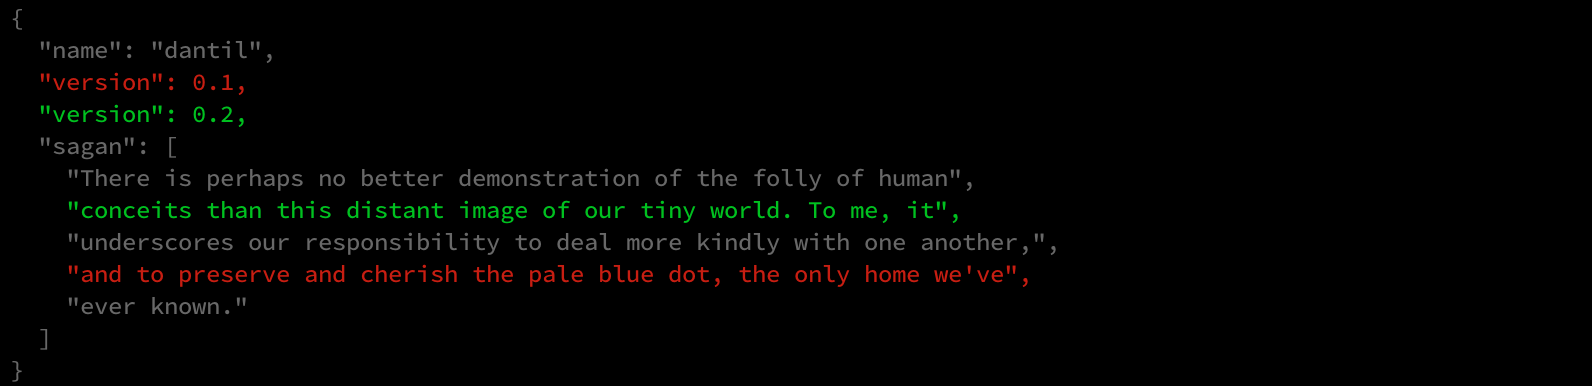
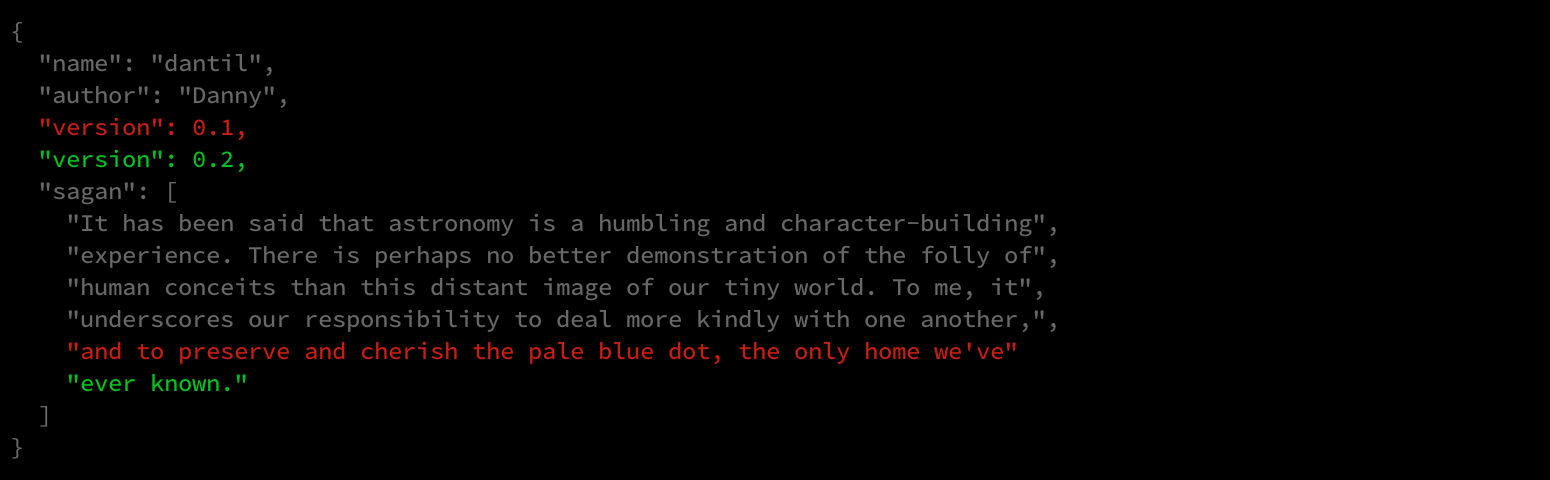
Expand `dantil.diffObjects()` example

Changed region(s): [[0.0, 0.1865, 0.6813, 0.7461], [0.031, 0.0933, 0.1858, 0.1554], [0.031, 0.7772, 0.1548, 0.8394]]

diff --git a/dantil.js b/dantil.js
@@ -1468,32 +1468,42 @@ exports.deleteUndefinedObjectProps = function (object) {
  *
  * var objA = {
  *   name: 'dantil',
+ *   author: 'Danny',
  *   version: 0.1,
  *   sagan: [
- *     'There is perhaps no better demonstration of the folly of human',
+ *     'It has been said that astronomy is a humbling and character-building',
+ *     'experience. There is perhaps no better demonstration of the folly of',
+ *     'human conceits than this distant image of our tiny world. To me, it',
  *     'underscores our responsibility to deal more kindly with one another,',
- *     'and to preserve and cherish the pale blue dot, the only home we\'ve',
- *     'ever known.'
+ *     'and to preserve and cherish the pale blue dot, the only home we\'ve'
  *   ]
  * }
  *
  * var objB = {
  *   name: 'dantil',
+ *   author: 'Danny',
  *   version: 0.2,
  *   sagan: [
- *     'There is perhaps no better demonstration of the folly of human',
- *     'conceits than this distant image of our tiny world. To me, it',
+ *     'It has been said that astronomy is a humbling and character-building',
+ *     'experience. There is perhaps no better demonstration of the folly of',
+ *     'human conceits than this distant image of our tiny world. To me, it',
  *     'underscores our responsibility to deal more kindly with one another,',
  *     'ever known.'
  *   ]
  * }
- *
+ * ```
+ * ```js
  * // Compare objects and generate string with differences stylized.
- * var diff = dantil.diffObjects(objA, objB)
- * console.log(diff)
+ * console.log(dantil.diffObjects(objA, objB))
  * ```
  * Output:
  * <br><img src="https://raw.githubusercontent.com/DannyNemer/dantil/master/doc/img/dantil-diffObjects-example.jpg" alt="dantil.diffObjects() example output"/>
+ * ```js
+ * // Collapse ranges of unchanged lines.
+ * console.log(dantil.diffObjects(objA, objB, true))
+ * ```
+ * Collapsed output:
+ * <br><img src="https://raw.githubusercontent.com/DannyNemer/dantil/master/doc/img/dantil-diffObjects-collapsed-example.jpg" alt="dantil.diffObjects() collapsed example output"/>
  * ```
  */
 exports.diffObjects = function (object, other, collapsed) {

diff --git a/README.md b/README.md
@@ -1285,7 +1285,7 @@ Recursively deletes all properties of `object` defined as `undefined`. This is u
 <!-- div -->
 
 ### <a id="dantil-diffObjects"></a>`dantil.diffObjects(object, other, [collapsed])`
-<a href="#dantil-diffObjects">#</a> [&#x24C8;](https://github.com/DannyNemer/dantil/blob/master/dantil.js#L1499 "View in source") [&#x24C9;][1]
+<a href="#dantil-diffObjects">#</a> [&#x24C8;](https://github.com/DannyNemer/dantil/blob/master/dantil.js#L1509 "View in source") [&#x24C9;][1]
 
 Compares two objects line by line and stylizes the differences for printing.
 
@@ -1301,32 +1301,42 @@ Compares two objects line by line and stylizes the differences for printing.
 ```js
 var objA = {
   name: 'dantil',
+  author: 'Danny',
   version: 0.1,
   sagan: [
-    'There is perhaps no better demonstration of the folly of human',
+    'It has been said that astronomy is a humbling and character-building',
+    'experience. There is perhaps no better demonstration of the folly of',
+    'human conceits than this distant image of our tiny world. To me, it',
     'underscores our responsibility to deal more kindly with one another,',
-    'and to preserve and cherish the pale blue dot, the only home we\'ve',
-    'ever known.'
+    'and to preserve and cherish the pale blue dot, the only home we\'ve'
   ]
 }
 
 var objB = {
   name: 'dantil',
+  author: 'Danny',
   version: 0.2,
   sagan: [
-    'There is perhaps no better demonstration of the folly of human',
-    'conceits than this distant image of our tiny world. To me, it',
+    'It has been said that astronomy is a humbling and character-building',
+    'experience. There is perhaps no better demonstration of the folly of',
+    'human conceits than this distant image of our tiny world. To me, it',
     'underscores our responsibility to deal more kindly with one another,',
     'ever known.'
   ]
 }
-
+```
+```js
 // Compare objects and generate string with differences stylized.
-var diff = dantil.diffObjects(objA, objB)
-console.log(diff)
+console.log(dantil.diffObjects(objA, objB))
 ```
 Output:
 <br><img src="https://raw.githubusercontent.com/DannyNemer/dantil/master/doc/img/dantil-diffObjects-example.jpg" alt="dantil.diffObjects() example output"/>
+```js
+// Collapse ranges of unchanged lines.
+console.log(dantil.diffObjects(objA, objB, true))
+```
+Collapsed output:
+<br><img src="https://raw.githubusercontent.com/DannyNemer/dantil/master/doc/img/dantil-diffObjects-collapsed-example.jpg" alt="dantil.diffObjects() collapsed example output"/>
 ```
 ```
 * * *
@@ -1342,7 +1352,7 @@ Output:
 <!-- div -->
 
 ### <a id="dantil-cleanFloat"></a>`dantil.cleanFloat(number)`
-<a href="#dantil-cleanFloat">#</a> [&#x24C8;](https://github.com/DannyNemer/dantil/blob/master/dantil.js#L1591 "View in source") [&#x24C9;][1]
+<a href="#dantil-cleanFloat">#</a> [&#x24C8;](https://github.com/DannyNemer/dantil/blob/master/dantil.js#L1601 "View in source") [&#x24C9;][1]
 
 Removes any extraneous digits from `number`, which result from operations limited by JavaScript's floating point number precision, such as `0.1 * 0.2` (which does not equal `0.02`). This limitation results from being unable to map `0.1` to a finite binary floating point number.
 
@@ -1373,7 +1383,7 @@ number = dantil.cleanFloat(number)
 <!-- div -->
 
 ### <a id="dantil-diffStrings"></a>`dantil.diffStrings(expected, actual)`
-<a href="#dantil-diffStrings">#</a> [&#x24C8;](https://github.com/DannyNemer/dantil/blob/master/dantil.js#L1619 "View in source") [&#x24C9;][1]
+<a href="#dantil-diffStrings">#</a> [&#x24C8;](https://github.com/DannyNemer/dantil/blob/master/dantil.js#L1629 "View in source") [&#x24C9;][1]
 
 Compares two strings word by word and stylizes the differences for printing.
 
@@ -1405,7 +1415,7 @@ Output:
 <!-- div -->
 
 ### <a id="dantil-format"></a>`dantil.format(string, [placeholderVals])`
-<a href="#dantil-format">#</a> [&#x24C8;](https://github.com/DannyNemer/dantil/blob/master/dantil.js#L1657 "View in source") [&#x24C9;][1]
+<a href="#dantil-format">#</a> [&#x24C8;](https://github.com/DannyNemer/dantil/blob/master/dantil.js#L1667 "View in source") [&#x24C9;][1]
 
 Formats a string in a `printf()`-like format using Node's `util.format()`.
 
@@ -1428,7 +1438,7 @@ dantil.format('%s:%s %d', 'foo', 'bar', 22)
 <!-- div -->
 
 ### <a id="dantil-kebabToCamelCase"></a>`dantil.kebabToCamelCase(kebabCasedString)`
-<a href="#dantil-kebabToCamelCase">#</a> [&#x24C8;](https://github.com/DannyNemer/dantil/blob/master/dantil.js#L1672 "View in source") [&#x24C9;][1]
+<a href="#dantil-kebabToCamelCase">#</a> [&#x24C8;](https://github.com/DannyNemer/dantil/blob/master/dantil.js#L1682 "View in source") [&#x24C9;][1]
 
 Converts kebab cased `string` to camel case.
 
@@ -1450,7 +1460,7 @@ dantil.kebabToCamelCase('my-long-variable-name')
 <!-- div -->
 
 ### <a id="dantil-camelToKebabCase"></a>`dantil.camelToKebabCase(camelCasedString)`
-<a href="#dantil-camelToKebabCase">#</a> [&#x24C8;](https://github.com/DannyNemer/dantil/blob/master/dantil.js#L1691 "View in source") [&#x24C9;][1]
+<a href="#dantil-camelToKebabCase">#</a> [&#x24C8;](https://github.com/DannyNemer/dantil/blob/master/dantil.js#L1701 "View in source") [&#x24C9;][1]
 
 Converts camel cased `string` to kebab case.
 
